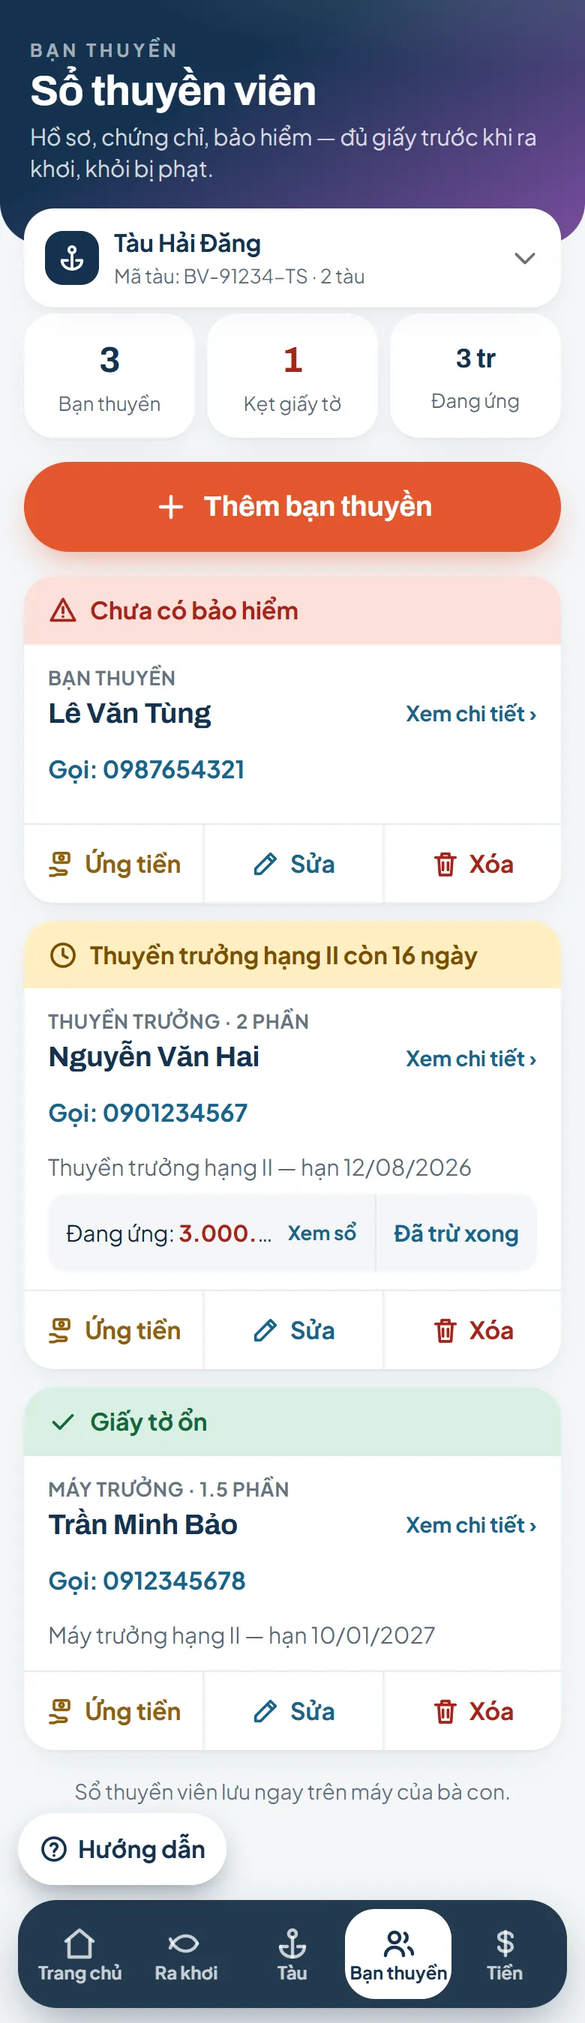
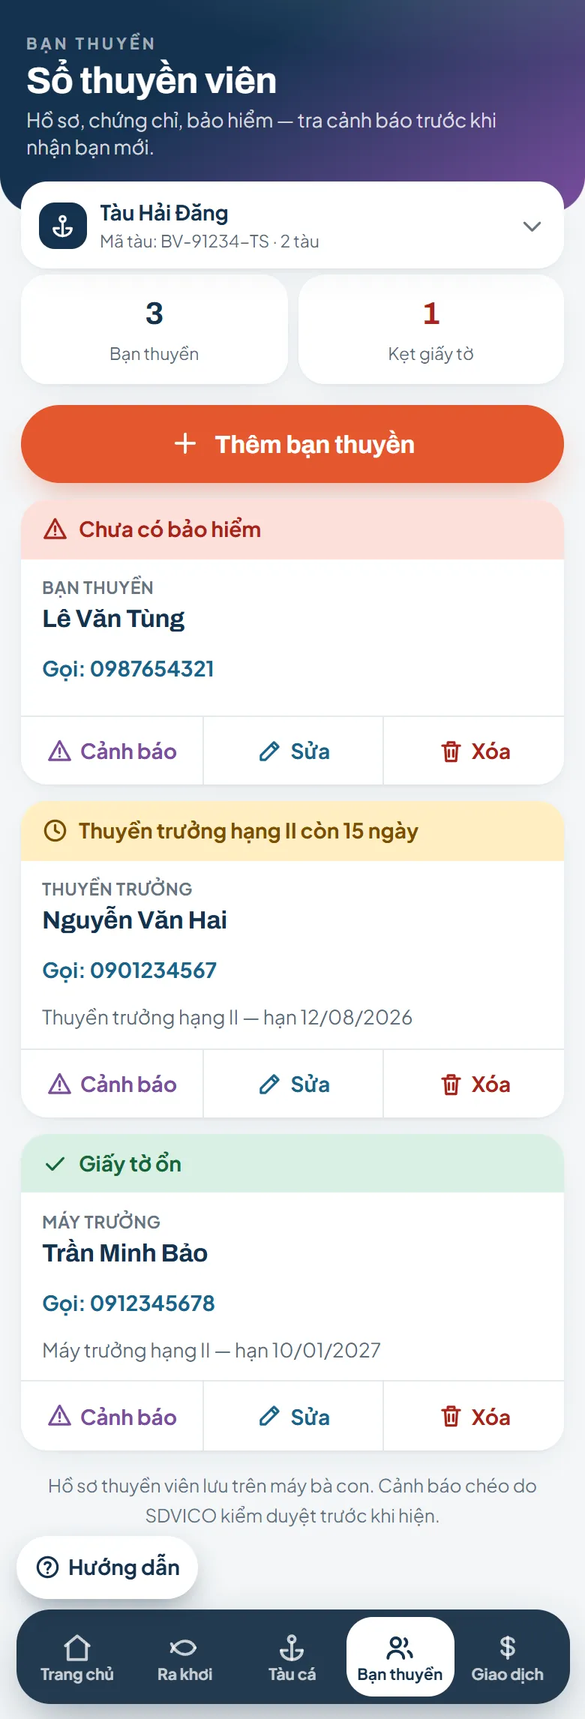
docs(guide): regen sách hướng dẫn theo sản phẩm X
- guide-content: bỏ 3 màn chết (tau-muc-phat, tien-hieu-qua, tien-cong-no);
  /tien về màn Giao dịch đơn (chợ mua–bán, bỏ tab lãi lỗ/công nợ); Tàu 3 tab
  (bỏ Mức phạt); thuyền viên CCCD; FAQ/tile gỡ lãi lỗ/công nợ/mức phạt.
- Regen huong-dan.html: 9 màn, ảnh chụp app X hiện tại.

⚠ Còn 14 mark chưa đánh số được: base đổi/bỏ nhiều data-tour anchor
(tai-khoan/rail/them-thuyen-vien/tab-*) so với guide-content — base không
bảo trì đồng bộ. Cần re-align marks theo DOM app base (việc riêng).

diff --git a/public/huong-dan.html b/public/huong-dan.html
@@ -69,14 +69,14 @@
 
 <nav class="toc">
   <h2>Nội dung</h2>
-  <ol><li><a href="#bat-dau">Bắt đầu: cài app và đăng nhập</a></li><li><a href="#trang-chu">Màn Trang chủ</a></li><li><a href="#tai-khoan">Bảng Tài khoản</a></li><li><a href="#ra-khoi">Màn Ra khơi</a></li><li><a href="#tau-giay-to">Màn Tàu của tôi — tab Giấy tờ</a></li><li><a href="#tau-dich-vu">Màn Tàu của tôi — tab Dịch vụ</a></li><li><a href="#tau-muc-phat">Màn Tàu của tôi — tab Mức phạt</a></li><li><a href="#ban-thuyen">Màn Bạn thuyền</a></li><li><a href="#tien-giao-dich">Màn Sổ tiền — tab Giao dịch</a></li><li><a href="#tien-hieu-qua">Màn Sổ tiền — tab Hiệu quả</a></li><li><a href="#tien-cong-no">Màn Sổ tiền — tab Công nợ</a></li><li><a href="#cang">Màn Danh bạ cảng</a></li><li><a href="#login">Màn Đăng nhập</a></li><li><a href="#hoi-dap">Hỏi đáp nhanh</a></li></ol>
+  <ol><li><a href="#bat-dau">Bắt đầu: cài app và đăng nhập</a></li><li><a href="#trang-chu">Màn Trang chủ</a></li><li><a href="#tai-khoan">Bảng Tài khoản</a></li><li><a href="#ra-khoi">Màn Ra khơi</a></li><li><a href="#tau-giay-to">Màn Tàu của tôi — tab Giấy tờ</a></li><li><a href="#tau-dich-vu">Màn Tàu của tôi — tab Dịch vụ</a></li><li><a href="#ban-thuyen">Màn Bạn thuyền</a></li><li><a href="#tien-giao-dich">Màn Giao dịch</a></li><li><a href="#cang">Màn Danh bạ cảng</a></li><li><a href="#login">Màn Đăng nhập</a></li><li><a href="#hoi-dap">Hỏi đáp nhanh</a></li></ol>
 </nav>
 
 
 <section id="bat-dau">
   <h2>Bắt đầu: cài app và đăng nhập</h2>
   <p class="lead">App chạy thẳng trên trình duyệt điện thoại, cài về màn hình chính cho tiện.</p>
-  <h3>Cài app về màn hình chính</h3><ol class="steps"><li>Mở app bằng trình duyệt (Chrome trên Android, Safari trên iPhone).</li><li>Android: bấm dấu ba chấm ở góc → chọn <b>Cài ứng dụng</b> (hoặc <b>Thêm vào màn hình chính</b>).</li><li>iPhone: bấm nút chia sẻ (ô vuông có mũi tên đi lên) → <b>Thêm vào MH chính</b>.</li><li>Xong, biểu tượng SDFish nằm ngoài màn hình chính như mọi app khác.</li></ol><div class="note"><b>Không đăng nhập vẫn xem được</b> giá cá, mức phạt, gió sóng, danh bạ cảng. Những thứ riêng của bà con — giấy tờ, thuyền viên, lãi lỗ, công nợ — thì phải đăng nhập, để người khác cầm máy cũng không xem được.</div><h3>Xem chỉ dẫn ngay trên màn hình</h3><p>Trong app có nút <b>Hướng dẫn</b> ở góc trái dưới. Bấm vào là app tối màn lại, sáng đúng cái nút đang nói tới kèm một câu giải thích — giống hệt các ảnh trong sách này nhưng ngay trên máy của bà con. Lần đầu mở mỗi màn app tự chỉ một lượt; muốn xem lại thì bấm nút đó, hoặc vào nút tài khoản chọn <b>Chỉ lại từ đầu trên màn hình</b>.</p>
+  <h3>Cài app về màn hình chính</h3><ol class="steps"><li>Mở app bằng trình duyệt (Chrome trên Android, Safari trên iPhone).</li><li>Android: bấm dấu ba chấm ở góc → chọn <b>Cài ứng dụng</b> (hoặc <b>Thêm vào màn hình chính</b>).</li><li>iPhone: bấm nút chia sẻ (ô vuông có mũi tên đi lên) → <b>Thêm vào MH chính</b>.</li><li>Xong, biểu tượng SDFish nằm ngoài màn hình chính như mọi app khác.</li></ol><div class="note"><b>Không đăng nhập vẫn xem được</b> giá cá, gió sóng, danh bạ cảng, chợ tin mua–bán. Những thứ riêng của bà con — giấy tờ, thuyền viên — thì phải đăng nhập, để người khác cầm máy cũng không xem được.</div><h3>Xem chỉ dẫn ngay trên màn hình</h3><p>Trong app có nút <b>Hướng dẫn</b> ở góc trái dưới. Bấm vào là app tối màn lại, sáng đúng cái nút đang nói tới kèm một câu giải thích — giống hệt các ảnh trong sách này nhưng ngay trên máy của bà con. Lần đầu mở mỗi màn app tự chỉ một lượt; muốn xem lại thì bấm nút đó, hoặc vào nút tài khoản chọn <b>Chỉ lại từ đầu trên màn hình</b>.</p>
 </section>
 
 <section id="trang-chu">
@@ -84,15 +84,15 @@
   <p class="lead">Nhìn một cái là biết có việc gì gấp, và đi đâu tiếp.</p>
   <figure class="shot">
     <div class="frame">
-      <img src="huong-dan/trang-chu.webp" alt="Ảnh màn Màn Trang chủ" width="390" height="1194">
-      <span class="mk" style="left:5.13%;top:7.49%;width:51.16%;height:3.69%"><b>1</b></span><span class="mk" style="left:4.10%;top:12.51%;width:91.79%;height:5.56%"><b>2</b></span><span class="mk" style="left:4.10%;top:19.08%;width:91.79%;height:33.99%"><b>3</b></span><span class="mk" style="left:4.10%;top:57.32%;width:44.36%;height:13.55%"><b>4</b></span><span class="mk" style="left:51.54%;top:57.32%;width:44.36%;height:13.55%"><b>5</b></span><span class="mk" style="left:4.10%;top:71.87%;width:44.36%;height:13.55%"><b>6</b></span><span class="mk" style="left:51.54%;top:71.87%;width:44.36%;height:13.55%"><b>7</b></span><span class="mk" style="left:3.08%;top:93.13%;width:93.85%;height:6.03%"><b>8</b></span>
+      <img src="huong-dan/trang-chu.webp" alt="Ảnh màn Màn Trang chủ" width="390" height="1045">
+      <span class="mk" style="left:3.59%;top:12.51%;width:92.82%;height:5.56%"><b>1</b></span><span class="mk" style="left:3.59%;top:19.07%;width:92.82%;height:34.01%"><b>2</b></span><span class="mk" style="left:3.59%;top:57.33%;width:45.06%;height:13.54%"><b>3</b></span><span class="mk" style="left:51.35%;top:57.33%;width:45.06%;height:13.54%"><b>4</b></span><span class="mk" style="left:3.59%;top:71.88%;width:45.06%;height:13.54%"><b>5</b></span><span class="mk" style="left:51.35%;top:71.88%;width:45.06%;height:13.54%"><b>6</b></span><span class="mk" style="left:2.69%;top:93.01%;width:94.62%;height:6.03%"><b>7</b></span>
     </div>
     <figcaption>Ảnh chụp từ chính app — số trên ảnh ứng với bảng bên dưới.</figcaption>
   </figure>
   <div class="scroll">
   <table>
     <tr><th>#</th><th>Nút</th><th>Làm gì</th></tr>
-    <tr><td class="num">1</td><td class="btn">Nút tài khoản</td><td>Hiện tên bà con. Bấm vào mở bảng: chỉnh cỡ chữ, xem hướng dẫn, đổi mật khẩu, đăng xuất.</td></tr><tr><td class="num">2</td><td class="btn">Chọn tàu</td><td>Hiện tàu đang xem. Bấm để đổi tàu khác hoặc thêm tàu mới. Giấy tờ, bảo dưỡng, lãi lỗ đều tính theo tàu đang chọn ở đây — chọn nhầm tàu là xem nhầm sổ.</td></tr><tr><td class="num">3</td><td class="btn">Việc cần làm ngay</td><td>App tự nhắc giấy tờ, bảo hiểm, bảo dưỡng sắp hết hạn. Bấm vào dòng nhắc là tới thẳng chỗ xử lý, khỏi phải đi tìm.</td></tr><tr><td class="num">4</td><td class="btn">Ô Ra khơi</td><td>Bản đồ biển: gió sóng, chỗ có khả năng có cá, dẫn đường tiết kiệm dầu.</td></tr><tr><td class="num">5</td><td class="btn">Ô Tàu của tôi</td><td>Giấy tờ tàu, dịch vụ và đồ đã mua của SDVICO, tra mức phạt.</td></tr><tr><td class="num">6</td><td class="btn">Ô Bạn thuyền</td><td>Hồ sơ thuyền viên, chứng chỉ, bảo hiểm, sổ ứng tiền.</td></tr><tr><td class="num">7</td><td class="btn">Ô Sổ tiền</td><td>Giá cá, ai đang cần mua, lãi lỗ từng chuyến, công nợ.</td></tr><tr><td class="num">8</td><td class="btn">Thanh dưới cùng</td><td>Luôn có ở mọi màn: Trang chủ · Ra khơi · Tàu · Bạn thuyền · Tiền. Lạc chỗ nào thì bấm Trang chủ về lại.</td></tr>
+    <tr><td class="num">1</td><td class="btn">Chọn tàu</td><td>Hiện tàu đang xem. Bấm để đổi tàu khác hoặc thêm tàu mới. Giấy tờ, bảo dưỡng đều tính theo tàu đang chọn ở đây — chọn nhầm tàu là xem nhầm sổ.</td></tr><tr><td class="num">2</td><td class="btn">Việc cần làm ngay</td><td>App tự nhắc giấy tờ, bảo hiểm, bảo dưỡng sắp hết hạn. Bấm vào dòng nhắc là tới thẳng chỗ xử lý, khỏi phải đi tìm.</td></tr><tr><td class="num">3</td><td class="btn">Ô Ra khơi</td><td>Bản đồ biển: gió sóng, chỗ có khả năng có cá, dẫn đường tiết kiệm dầu.</td></tr><tr><td class="num">4</td><td class="btn">Ô Tàu cá</td><td>Giấy tờ tàu, dịch vụ và đồ đã mua của SDVICO, danh mục sản phẩm.</td></tr><tr><td class="num">5</td><td class="btn">Ô Bạn thuyền</td><td>Hồ sơ thuyền viên, chứng chỉ, bảo hiểm, sổ ứng tiền.</td></tr><tr><td class="num">6</td><td class="btn">Ô Giao dịch</td><td>Giá cá, ai đang cần mua, chợ tin mua–bán.</td></tr><tr><td class="num">7</td><td class="btn">Thanh dưới cùng</td><td>Luôn có ở mọi màn: Trang chủ · Ra khơi · Tàu · Bạn thuyền · Tiền. Lạc chỗ nào thì bấm Trang chủ về lại.</td></tr>
   </table>
   </div>
   
@@ -103,15 +103,15 @@
   <p class="lead">Bấm nút tài khoản ở đầu Trang chủ để mở bảng này.</p>
   <figure class="shot">
     <div class="frame">
-      <img src="huong-dan/tai-khoan.webp" alt="Ảnh màn Bảng Tài khoản" width="390" height="1194">
-      <span class="mk" style="left:5.13%;top:63.47%;width:89.74%;height:4.69%"><b>1</b></span><span class="mk" style="left:5.13%;top:76.44%;width:89.74%;height:5.14%"><b>2</b></span><span class="mk" style="left:5.13%;top:81.57%;width:89.74%;height:4.69%"><b>3</b></span><span class="mk" style="left:5.13%;top:87.60%;width:89.74%;height:4.36%"><b>4</b></span><span class="mk" style="left:5.13%;top:92.96%;width:89.74%;height:4.36%"><b>5</b></span>
+      <img src="huong-dan/tai-khoan.webp" alt="Ảnh màn Bảng Tài khoản" width="390" height="1045">
+      
     </div>
     <figcaption>Ảnh chụp từ chính app — số trên ảnh ứng với bảng bên dưới.</figcaption>
   </figure>
   <div class="scroll">
   <table>
     <tr><th>#</th><th>Nút</th><th>Làm gì</th></tr>
-    <tr><td class="num">1</td><td class="btn">Cỡ giao diện</td><td>Ba kiểu: Theo máy (mặc định — chữ trong điện thoại to thì app to theo), Chữ to, Gọn. Bấm lại lựa chọn đang bật để về Theo máy.</td></tr><tr><td class="num">2</td><td class="btn">Chỉ dẫn trên màn hình (bật/tắt)</td><td>Công tắc phần chỉ dẫn từng nút. Bật (mặc định) thì có nút Hướng dẫn ở mọi màn và tự chỉ một lượt lần đầu. Quen app rồi thì tắt cho gọn — ẩn nút, không tự chỉ nữa.</td></tr><tr><td class="num">3</td><td class="btn">Chỉ lại từ đầu trên màn hình</td><td>Bật lại phần chỉ dẫn từng nút ở mọi màn, như lúc mới dùng app. Chỉ hiện khi công tắc trên đang bật.</td></tr><tr><td class="num">4</td><td class="btn">Đổi mật khẩu</td><td>Đặt mật khẩu mới. Mật khẩu mới dùng được cả bên SDVICO.</td></tr><tr><td class="num">5</td><td class="btn">Đăng xuất</td><td>Thoát tài khoản. Dữ liệu riêng trên máy được dọn đi, người khác cầm máy không xem được.</td></tr>
+    
   </table>
   </div>
   
@@ -123,14 +123,14 @@
   <figure class="shot">
     <div class="frame">
       <img src="huong-dan/ra-khoi.webp" alt="Ảnh màn Màn Ra khơi" width="390" height="844">
-      <span class="mk" style="left:81.54%;top:4.83%;width:16.41%;height:6.16%"><b>1</b></span><span class="mk" style="left:81.54%;top:19.50%;width:16.41%;height:7.11%"><b>2</b></span><span class="mk" style="left:81.54%;top:27.55%;width:16.41%;height:7.11%"><b>3</b></span><span class="mk" style="left:81.54%;top:35.61%;width:16.41%;height:7.11%"><b>4</b></span><span class="mk" style="left:81.54%;top:43.67%;width:16.41%;height:7.11%"><b>5</b></span><span class="mk" style="left:81.54%;top:51.72%;width:16.41%;height:7.11%"><b>6</b></span><span class="mk" style="left:81.54%;top:59.78%;width:16.41%;height:7.11%"><b>7</b></span><span class="mk" style="left:0.00%;top:70.72%;width:100.00%;height:19.33%"><b>8</b></span>
+      <span class="mk" style="left:83.85%;top:4.07%;width:14.36%;height:5.78%"><b>1</b></span><span class="mk" style="left:0.00%;top:73.14%;width:100.00%;height:16.91%"><b>2</b></span>
     </div>
     <figcaption>Ảnh chụp từ chính app — số trên ảnh ứng với bảng bên dưới.</figcaption>
   </figure>
   <div class="scroll">
   <table>
     <tr><th>#</th><th>Nút</th><th>Làm gì</th></tr>
-    <tr><td class="num">1</td><td class="btn">Nút Lớp / Ẩn</td><td>Thu gọn cả dãy nút cho thoáng bản đồ, bấm lại là hiện ra.</td></tr><tr><td class="num">2</td><td class="btn">Hải đồ</td><td>Chọn nền bản đồ: hải đồ độ sâu (mặc định, có số mét), nước nóng lạnh, vùng nhiều mồi, ảnh mây trời.</td></tr><tr><td class="num">3</td><td class="btn">Ngư trường</td><td>Vùng có khả năng có cá, chọn theo loài. Chấm càng đậm càng nhiều khả năng; hồng tâm là điểm nóng nhất.</td></tr><tr><td class="num">4</td><td class="btn">Thời tiết</td><td>Bật lớp gió hoặc sóng vẽ động theo giờ, có thanh thời gian kéo tới lui và nút chạy.</td></tr><tr><td class="num">5</td><td class="btn">Điểm đã lưu</td><td>Ghim chỗ hay đánh và đặt tên. Đặt cảng nhà ở đây (gõ tìm trong 173 cảng cả nước).</td></tr><tr><td class="num">6</td><td class="btn">Công cụ</td><td>Đo khoảng cách giữa hai điểm trên biển.</td></tr><tr><td class="num">7</td><td class="btn">Cài đặt</td><td>Đổi đơn vị khoảng cách (hải lý / km) và kiểu toạ độ.</td></tr><tr><td class="num">8</td><td class="btn">Bảng dưới đáy</td><td>Biển êm hay động, sóng mấy mét, gió cấp mấy ở chỗ đang xem. Chạm vào biển là bảng đổi sang chỗ vừa chạm; kéo bảng lên để xem đủ mưa dông, nước cạn, tuần trăng, toạ độ.</td></tr>
+    <tr><td class="num">1</td><td class="btn">Nút Lớp / Ẩn</td><td>Thu gọn cả dãy nút cho thoáng bản đồ, bấm lại là hiện ra.</td></tr><tr><td class="num">2</td><td class="btn">Bảng dưới đáy</td><td>Biển êm hay động, sóng mấy mét, gió cấp mấy ở chỗ đang xem. Chạm vào biển là bảng đổi sang chỗ vừa chạm; kéo bảng lên để xem đủ mưa dông, nước cạn, tuần trăng, toạ độ.</td></tr>
   </table>
   </div>
   <div class="note"><b>Còn mấy thứ nổi trên bản đồ, không đánh số vì lúc có lúc không:</b><br>· <b>Tin bão Biển Đông</b> — dải trên cùng. Có bão/áp thấp thì đỏ hoặc vàng, kèm giờ của bản tin; biển yên thì dòng xanh trấn an; mất sóng không hỏi được thì nền vàng, app KHÔNG bao giờ nói liều 'không có bão'.<br>· <b>Dẫn đường tiết kiệm dầu</b> — chấm điểm đi rồi điểm đến, app vẽ tuyến né bớt sóng gió theo giờ và ước tính số lít dầu. Con số dầu là tham khảo.<br>· <b>Dự báo cá</b> (chỗ có khả năng có cá theo loài) và <b>thời tiết quá 3 ngày</b> là của <b>tài khoản nâng cao (premium)</b> — xem mục hỏi đáp bên dưới.<br>· <b>Mất sóng ngoài khơi:</b> chỗ nào đã xem lúc còn mạng thì app giữ lại bản đồ, vẫn xem được gió sóng đã lưu, có ghi 'đã lưu tới ngày…'. Bản lưu không chấm điểm biển và không có mưa/dông.</div>
@@ -138,18 +138,18 @@
 </section>
 <section id="tau-giay-to">
   <h2>Màn Tàu của tôi — tab Giấy tờ</h2>
-  <p class="lead">Bốn tab trên đầu màn. Tab Giấy tờ lo chuyện đủ điều kiện ra khơi.</p>
+  <p class="lead">Ba tab trên đầu màn: Giấy tờ, Dịch vụ, Sản phẩm.</p>
   <figure class="shot">
     <div class="frame">
-      <img src="huong-dan/tau-giay-to.webp" alt="Ảnh màn Màn Tàu của tôi — tab Giấy tờ" width="390" height="2454">
-      <span class="mk" style="left:5.13%;top:8.92%;width:21.67%;height:2.28%"><b>1</b></span><span class="mk" style="left:27.82%;top:8.92%;width:21.67%;height:2.28%"><b>2</b></span><span class="mk" style="left:50.51%;top:8.92%;width:21.67%;height:2.28%"><b>3</b></span><span class="mk" style="left:73.21%;top:8.92%;width:21.67%;height:2.28%"><b>4</b></span><span class="mk" style="left:4.10%;top:59.82%;width:91.79%;height:2.44%"><b>5</b></span>
+      <img src="huong-dan/tau-giay-to.webp" alt="Ảnh màn Màn Tàu của tôi — tab Giấy tờ" width="390" height="1130">
+      <span class="mk" style="left:4.49%;top:16.96%;width:22.08%;height:4.34%"><b>1</b></span><span class="mk" style="left:27.47%;top:16.96%;width:22.08%;height:4.34%"><b>2</b></span><span class="mk" style="left:50.45%;top:16.96%;width:22.08%;height:4.34%"><b>3</b></span><span class="mk" style="left:3.59%;top:23.62%;width:92.82%;height:4.65%"><b>4</b></span>
     </div>
     <figcaption>Ảnh chụp từ chính app — số trên ảnh ứng với bảng bên dưới.</figcaption>
   </figure>
   <div class="scroll">
   <table>
     <tr><th>#</th><th>Nút</th><th>Làm gì</th></tr>
-    <tr><td class="num">1</td><td class="btn">Tab Giấy tờ</td><td>Checklist xuất bến + tủ giấy tờ của tàu đang chọn.</td></tr><tr><td class="num">2</td><td class="btn">Tab Dịch vụ</td><td>Dịch vụ SDVICO, cước chờ đóng, nút gọi SDVICO, sổ nhắc bảo dưỡng.</td></tr><tr><td class="num">3</td><td class="btn">Tab Sản phẩm</td><td>Đồ đã mua và hạn bảo hành.</td></tr><tr><td class="num">4</td><td class="btn">Tab Mức phạt</td><td>Tra mức phạt theo Nghị định 38/2024.</td></tr><tr><td class="num">5</td><td class="btn">Thêm giấy tờ</td><td>Ghi loại giấy, số giấy và ngày hết hạn. App tự nhắc trước khi hết hạn.</td></tr>
+    <tr><td class="num">1</td><td class="btn">Tab Giấy tờ</td><td>Tủ giấy tờ của tàu đang chọn — app nhắc trước khi hết hạn.</td></tr><tr><td class="num">2</td><td class="btn">Tab Dịch vụ</td><td>Dịch vụ SDVICO, cước chờ đóng, nút gọi SDVICO, sổ nhắc bảo dưỡng.</td></tr><tr><td class="num">3</td><td class="btn">Tab Sản phẩm</td><td>Đồ đã mua và hạn bảo hành + danh mục sản phẩm SDVICO.</td></tr><tr><td class="num">4</td><td class="btn">Thêm giấy tờ</td><td>Ghi loại giấy, số giấy và ngày hết hạn. App tự nhắc trước khi hết hạn.</td></tr>
   </table>
   </div>
   
@@ -160,8 +160,8 @@
   <p class="lead">Dịch vụ đang dùng của SDVICO và sổ nhắc bảo dưỡng tự ghi.</p>
   <figure class="shot">
     <div class="frame">
-      <img src="huong-dan/tau-dich-vu.webp" alt="Ảnh màn Màn Tàu của tôi — tab Dịch vụ" width="390" height="1737">
-      <span class="mk" style="left:4.10%;top:21.85%;width:91.79%;height:3.45%"><b>1</b></span><span class="mk" style="left:4.10%;top:54.51%;width:91.79%;height:3.45%"><b>2</b></span>
+      <img src="huong-dan/tau-dich-vu.webp" alt="Ảnh màn Màn Tàu của tôi — tab Dịch vụ" width="390" height="1520">
+      <span class="mk" style="left:3.59%;top:21.85%;width:92.82%;height:3.45%"><b>1</b></span><span class="mk" style="left:3.59%;top:54.51%;width:92.82%;height:3.45%"><b>2</b></span>
     </div>
     <figcaption>Ảnh chụp từ chính app — số trên ảnh ứng với bảng bên dưới.</figcaption>
   </figure>
@@ -174,99 +174,42 @@
   
   
 </section>
-<section id="tau-muc-phat">
-  <h2>Màn Tàu của tôi — tab Mức phạt</h2>
-  <p class="lead">Tra mức phạt trước khi ra khơi. Không cần đăng nhập cũng xem được.</p>
-  <figure class="shot">
-    <div class="frame">
-      <img src="huong-dan/tau-muc-phat.webp" alt="Ảnh màn Màn Tàu của tôi — tab Mức phạt" width="390" height="4000">
-      <span class="mk" style="left:4.10%;top:10.18%;width:91.79%;height:1.30%"><b>1</b></span>
-    </div>
-    <figcaption>Ảnh chụp từ chính app — số trên ảnh ứng với bảng bên dưới.</figcaption>
-  </figure>
-  <div class="scroll">
-  <table>
-    <tr><th>#</th><th>Nút</th><th>Làm gì</th></tr>
-    <tr><td class="num">1</td><td class="btn">Ô tìm lỗi</td><td>Gõ vài chữ của lỗi muốn tra, danh sách lọc ngay.</td></tr>
-  </table>
-  </div>
-  <div class="note">Mức phạt xếp từ nặng tới nhẹ. Đây là bản THAM KHẢO theo Nghị định 38/2024, không thay văn bản gốc.</div>
-  
-</section>
 <section id="ban-thuyen">
   <h2>Màn Bạn thuyền</h2>
-  <p class="lead">Ai đi tàu mình, giấy tờ tới đâu, ứng tiền bao nhiêu.</p>
+  <p class="lead">Ai đi tàu mình, giấy tờ tới đâu, có cảnh báo gì không.</p>
   <figure class="shot">
     <div class="frame">
-      <img src="huong-dan/ban-thuyen.webp" alt="Ảnh màn Màn Bạn thuyền" width="390" height="1349">
-      <span class="mk" style="left:4.10%;top:22.85%;width:91.79%;height:4.45%"><b>1</b></span>
+      <img src="huong-dan/ban-thuyen.webp" alt="Ảnh màn Màn Bạn thuyền" width="390" height="1146">
+      
     </div>
     <figcaption>Ảnh chụp từ chính app — số trên ảnh ứng với bảng bên dưới.</figcaption>
   </figure>
   <div class="scroll">
   <table>
     <tr><th>#</th><th>Nút</th><th>Làm gì</th></tr>
-    <tr><td class="num">1</td><td class="btn">Thêm bạn thuyền</td><td>Ghi tên, số điện thoại, chứng chỉ, bảo hiểm và ngày hết hạn.</td></tr>
+    
   </table>
   </div>
-  <div class="note">Sổ bạn thuyền theo CHỦ TÀU, không theo từng tàu — đổi tàu vẫn thấy đủ người. Bảo hiểm hoặc chứng chỉ sắp hết hạn thì băng trên thẻ chuyển vàng, quá hạn thì đỏ.</div>
+  <div class="note">Định danh bằng <b>CCCD</b>. Chủ tàu premium tra CCCD trước khi thuê thấy <b>cảnh báo đã được SDVICO kiểm duyệt</b> (nếu có). Bảo hiểm/chứng chỉ sắp hết hạn thì băng trên thẻ chuyển vàng, quá hạn thì đỏ. Sổ theo CHỦ TÀU, đổi tàu vẫn thấy đủ người.</div>
   
 </section>
 <section id="tien-giao-dich">
-  <h2>Màn Sổ tiền — tab Giao dịch</h2>
-  <p class="lead">Nắm giá trước khi vào bờ, khỏi bị ép giá. Không cần đăng nhập.</p>
+  <h2>Màn Giao dịch</h2>
+  <p class="lead">Nắm giá trước khi vào bờ + chợ tin mua/bán. Không cần đăng nhập.</p>
   <figure class="shot">
     <div class="frame">
-      <img src="huong-dan/tien-giao-dich.webp" alt="Ảnh màn Màn Sổ tiền — tab Giao dịch" width="390" height="2288">
-      <span class="mk" style="left:5.13%;top:9.57%;width:29.23%;height:2.45%"><b>1</b></span><span class="mk" style="left:35.38%;top:9.57%;width:29.23%;height:2.45%"><b>2</b></span><span class="mk" style="left:65.64%;top:9.57%;width:29.23%;height:2.45%"><b>3</b></span><span class="mk" style="left:4.10%;top:13.16%;width:20.53%;height:2.10%"><b>4</b></span><span class="mk" style="left:26.17%;top:13.16%;width:29.53%;height:2.10%"><b>5</b></span><span class="mk" style="left:57.24%;top:13.16%;width:27.56%;height:2.10%"><b>6</b></span>
+      <img src="huong-dan/tien-giao-dich.webp" alt="Ảnh màn Màn Giao dịch" width="390" height="1933">
+      <span class="mk" style="left:3.59%;top:9.28%;width:17.96%;height:2.17%"><b>1</b></span><span class="mk" style="left:53.01%;top:9.28%;width:24.11%;height:2.17%"><b>2</b></span>
     </div>
     <figcaption>Ảnh chụp từ chính app — số trên ảnh ứng với bảng bên dưới.</figcaption>
   </figure>
   <div class="scroll">
   <table>
     <tr><th>#</th><th>Nút</th><th>Làm gì</th></tr>
-    <tr><td class="num">1</td><td class="btn">Tab Giao dịch</td><td>Giá cá, ai cần mua, bán ở đâu.</td></tr><tr><td class="num">2</td><td class="btn">Tab Hiệu quả</td><td>Sổ lãi lỗ từng chuyến, báo cáo năm, máy tính chuyến, chia tiền.</td></tr><tr><td class="num">3</td><td class="btn">Tab Công nợ</td><td>Ai nợ ai, ứng trước bao nhiêu.</td></tr><tr><td class="num">4</td><td class="btn">Giá cá</td><td>Giá tham khảo theo tuần, kèm giá dầu DO.</td></tr><tr><td class="num">5</td><td class="btn">Ai cần mua</td><td>Đầu nậu, nhà máy đang cần loài gì, bao nhiêu — bấm để gọi.</td></tr><tr><td class="num">6</td><td class="btn">Bán ở đâu</td><td>Vựa, đầu mối, doanh nghiệp thu mua theo vùng và theo loài, có số điện thoại.</td></tr>
+    <tr><td class="num">1</td><td class="btn">Giá cá</td><td>Giá tham khảo theo tuần, kèm giá dầu DO.</td></tr><tr><td class="num">2</td><td class="btn">Bán ở đâu</td><td>Vựa, đầu mối, doanh nghiệp thu mua theo vùng và theo loài, có số điện thoại.</td></tr>
   </table>
   </div>
-  
-  
-</section>
-<section id="tien-hieu-qua">
-  <h2>Màn Sổ tiền — tab Hiệu quả</h2>
-  <p class="lead">Lãi lỗ từng chuyến, tính theo tàu đang chọn.</p>
-  <figure class="shot">
-    <div class="frame">
-      <img src="huong-dan/tien-hieu-qua.webp" alt="Ảnh màn Màn Sổ tiền — tab Hiệu quả" width="390" height="1581">
-      <span class="mk" style="left:4.10%;top:32.94%;width:24.50%;height:3.04%"><b>1</b></span><span class="mk" style="left:30.14%;top:32.94%;width:33.70%;height:3.04%"><b>2</b></span><span class="mk" style="left:65.38%;top:32.94%;width:31.67%;height:3.04%"><b>3</b></span><span class="mk" style="left:98.59%;top:32.94%;width:25.63%;height:3.04%"><b>4</b></span>
-    </div>
-    <figcaption>Ảnh chụp từ chính app — số trên ảnh ứng với bảng bên dưới.</figcaption>
-  </figure>
-  <div class="scroll">
-  <table>
-    <tr><th>#</th><th>Nút</th><th>Làm gì</th></tr>
-    <tr><td class="num">1</td><td class="btn">Sổ lãi/lỗ</td><td>Mỗi chuyến ghi: dầu, đá, tổn khác, tiền bán cá — app tính lãi lỗ giúp.</td></tr><tr><td class="num">2</td><td class="btn">Báo cáo năm</td><td>Tổng lãi lỗ cả năm, tách theo từng tháng.</td></tr><tr><td class="num">3</td><td class="btn">Tính chuyến</td><td>Máy tính tổn dự kiến trước khi đổ dầu và cần bán bao nhiêu cá mới hoà vốn.</td></tr><tr><td class="num">4</td><td class="btn">Chia tiền</td><td>Chia phần cho bạn thuyền theo cách của tàu mình.</td></tr>
-  </table>
-  </div>
-  <div class="note">Mọi ô nhập tiền đều tự chấm nghìn khi gõ và đọc lại thành chữ (“= 45 triệu đồng”) — nhìn dòng đó để chắc không thừa thiếu số không.</div>
-  
-</section>
-<section id="tien-cong-no">
-  <h2>Màn Sổ tiền — tab Công nợ</h2>
-  <p class="lead">Mỗi chủ nợ một dư nợ riêng, có lịch sử vay và trả từng lần.</p>
-  <figure class="shot">
-    <div class="frame">
-      <img src="huong-dan/tien-cong-no.webp" alt="Ảnh màn Màn Sổ tiền — tab Công nợ" width="390" height="1136">
-      <span class="mk" style="left:4.10%;top:38.18%;width:91.79%;height:5.28%"><b>1</b></span>
-    </div>
-    <figcaption>Ảnh chụp từ chính app — số trên ảnh ứng với bảng bên dưới.</figcaption>
-  </figure>
-  <div class="scroll">
-  <table>
-    <tr><th>#</th><th>Nút</th><th>Làm gì</th></tr>
-    <tr><td class="num">1</td><td class="btn">Thêm chủ nợ</td><td>Ghi tên đại lý dầu, nậu, ngân hàng… rồi ghi từng lần vay và trả.</td></tr>
-  </table>
-  </div>
-  
+  <div class="note">Khu Giao dịch nay gọn về đúng việc MUA–BÁN (giá + chợ tin + chỗ bán). Sổ lãi lỗ, công nợ, chia tiền chuyến đã bỏ.</div>
   
 </section>
 <section id="cang">
@@ -275,7 +218,7 @@
   <figure class="shot">
     <div class="frame">
       <img src="huong-dan/cang.webp" alt="Ảnh màn Màn Danh bạ cảng" width="390" height="844">
-      <span class="mk" style="left:4.10%;top:25.90%;width:91.79%;height:6.16%"><b>1</b></span>
+      <span class="mk" style="left:3.59%;top:22.67%;width:92.82%;height:5.39%"><b>1</b></span>
     </div>
     <figcaption>Ảnh chụp từ chính app — số trên ảnh ứng với bảng bên dưới.</figcaption>
   </figure>
@@ -294,7 +237,7 @@
   <figure class="shot">
     <div class="frame">
       <img src="huong-dan/login.webp" alt="Ảnh màn Màn Đăng nhập" width="390" height="844">
-      <span class="mk" style="left:9.23%;top:28.22%;width:81.54%;height:7.20%"><b>1</b></span><span class="mk" style="left:9.23%;top:40.83%;width:81.54%;height:7.20%"><b>2</b></span><span class="mk" style="left:9.23%;top:65.81%;width:81.54%;height:7.11%"><b>3</b></span>
+      <span class="mk" style="left:8.08%;top:24.70%;width:83.85%;height:6.30%"><b>1</b></span><span class="mk" style="left:8.08%;top:35.73%;width:83.85%;height:6.30%"><b>2</b></span><span class="mk" style="left:8.08%;top:57.58%;width:83.85%;height:6.22%"><b>3</b></span>
     </div>
     <figcaption>Ảnh chụp từ chính app — số trên ảnh ứng với bảng bên dưới.</figcaption>
   </figure>
@@ -311,7 +254,7 @@
 <section id="hoi-dap">
   <h2>Hỏi đáp nhanh</h2>
   
-  <h3>Chữ nhỏ quá, đọc không ra</h3><p>Bấm nút tài khoản trên Trang chủ → <b>Cỡ giao diện</b> → <b>Chữ to</b>. Hoặc chỉnh cỡ chữ trong cài đặt điện thoại, app tự to theo.</p><h3>Ngoài khơi mất sóng thì sao?</h3><p>Những gì đã ghi trong máy — giấy tờ, thuyền viên, sổ lãi lỗ, công nợ — vẫn xem được. Trên màn Ra khơi, <b>chỗ nào đã mở lúc còn mạng</b> thì app giữ lại bản đồ và số gió sóng, có ghi 'đã lưu tới ngày…' (bản lưu không chấm điểm biển, không có mưa dông). Giá cá, tin bão, và chỗ chưa từng mở thì cần có mạng mới xem được.</p><h3>Sao dự báo cá với thời tiết dài ngày bắt có tài khoản nâng cao?</h3><p><b>Dự báo cá</b> (chỗ có khả năng có cá theo loài) và <b>thời tiết quá 3 ngày</b> là tính năng của <b>tài khoản nâng cao (premium)</b>. Gió sóng 3 ngày, tin bão, giá cá, mức phạt, giấy tờ… thì mọi tài khoản đều dùng. Muốn mở premium: <b>gọi SDVICO</b> (Tàu của tôi → Dịch vụ → Gọi SDVICO), không phải trả tiền trong app — bên SDVICO mở giúp, mở xong đăng nhập lại là thấy.</p><h3>Tài khoản premium mở ở đâu?</h3><p>Không có nút mua trong app. Bà con <b>gọi SDVICO</b> nhờ mở — dùng chung số điện thoại đã đăng nhập. SDVICO mở xong thì tính năng tự hiện, khỏi cài lại gì.</p><h3>Sao mở màn Ra khơi lâu hơn màn khác?</h3><p>Bản đồ nặng nên nạp chậm hơn một chút. Nguồn dữ liệu nào hỏng thì app <b>nói rõ và cho nút Thử lại</b> — không bao giờ im lặng giả vờ như không có bão.</p><h3>Tôi có mấy tàu, ghi chung hay riêng?</h3><p>Riêng theo tàu: giấy tờ, bảo dưỡng, sổ lãi lỗ. Chung cả chủ tàu: sổ bạn thuyền. Đổi tàu bằng nút chọn tàu ngay dưới phần đầu màn.</p><h3>Xoá nhầm thì sao?</h3><p>App luôn hỏi lại trước khi xoá và nêu rõ xoá cái gì. Đã xoá thì không lấy lại được — đọc kỹ câu hỏi rồi hãy bấm.</p><h3>Cần người hỗ trợ</h3><p>Vào <b>Tàu của tôi → Dịch vụ → Gọi SDVICO</b>, gửi yêu cầu kèm số điện thoại. Nhân viên gọi lại.</p>
+  <h3>Chữ nhỏ quá, đọc không ra</h3><p>Bấm nút tài khoản trên Trang chủ → <b>Cỡ giao diện</b> → <b>Chữ to</b>. Hoặc chỉnh cỡ chữ trong cài đặt điện thoại, app tự to theo.</p><h3>Ngoài khơi mất sóng thì sao?</h3><p>Những gì đã ghi trong máy — giấy tờ, thuyền viên, nhắc bảo dưỡng — vẫn xem được. Trên màn Ra khơi, <b>chỗ nào đã mở lúc còn mạng</b> thì app giữ lại bản đồ và số gió sóng, có ghi 'đã lưu tới ngày…' (bản lưu không chấm điểm biển, không có mưa dông). Giá cá, tin bão, và chỗ chưa từng mở thì cần có mạng mới xem được.</p><h3>Sao dự báo cá với thời tiết dài ngày bắt có tài khoản nâng cao?</h3><p><b>Dự báo cá</b> (chỗ có khả năng có cá theo loài) và <b>thời tiết quá 3 ngày</b> là tính năng của <b>tài khoản nâng cao (premium)</b>. Gió sóng 3 ngày, tin bão, giá cá, giấy tờ… thì mọi tài khoản đều dùng. Muốn mở premium: <b>gọi SDVICO</b> (Tàu của tôi → Dịch vụ → Gọi SDVICO), không phải trả tiền trong app — bên SDVICO mở giúp, mở xong đăng nhập lại là thấy.</p><h3>Tài khoản premium mở ở đâu?</h3><p>Không có nút mua trong app. Bà con <b>gọi SDVICO</b> nhờ mở — dùng chung số điện thoại đã đăng nhập. SDVICO mở xong thì tính năng tự hiện, khỏi cài lại gì.</p><h3>Sao mở màn Ra khơi lâu hơn màn khác?</h3><p>Bản đồ nặng nên nạp chậm hơn một chút. Nguồn dữ liệu nào hỏng thì app <b>nói rõ và cho nút Thử lại</b> — không bao giờ im lặng giả vờ như không có bão.</p><h3>Tôi có mấy tàu, ghi chung hay riêng?</h3><p>Riêng theo tàu: giấy tờ, bảo dưỡng. Chung cả chủ tàu: sổ bạn thuyền. Đổi tàu bằng nút chọn tàu ngay dưới phần đầu màn.</p><h3>Xoá nhầm thì sao?</h3><p>App luôn hỏi lại trước khi xoá và nêu rõ xoá cái gì. Đã xoá thì không lấy lại được — đọc kỹ câu hỏi rồi hãy bấm.</p><h3>Cần người hỗ trợ</h3><p>Vào <b>Tàu của tôi → Dịch vụ → Gọi SDVICO</b>, gửi yêu cầu kèm số điện thoại. Nhân viên gọi lại.</p>
 </section>
 
 </div>
